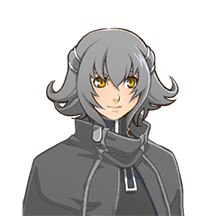
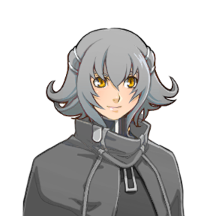
Fixing Robin

diff --git a/Bust Config.rb b/Bust Config.rb
@@ -167,7 +167,6 @@ Busty::MESSAGE_AUTODISPLAY_SPECIAL = {
 
   # Temporary disable characters in need of a bust fix
   "Hester" => "never",
-  "Robin grey" => "never",
   "Simon2D" => "never",
   "Ulrissa" => "never",
 }
@@ -758,7 +757,6 @@ Busty::BASE_CONFIG.merge!({
     face_offset_x: 63,
     face_offset_y: 53,
   },
-  # FIXME Major. Wrong hue of grey?
   "Robin grey" => {
     bust_scale: 0.75,
     face_offset_x: 63,
